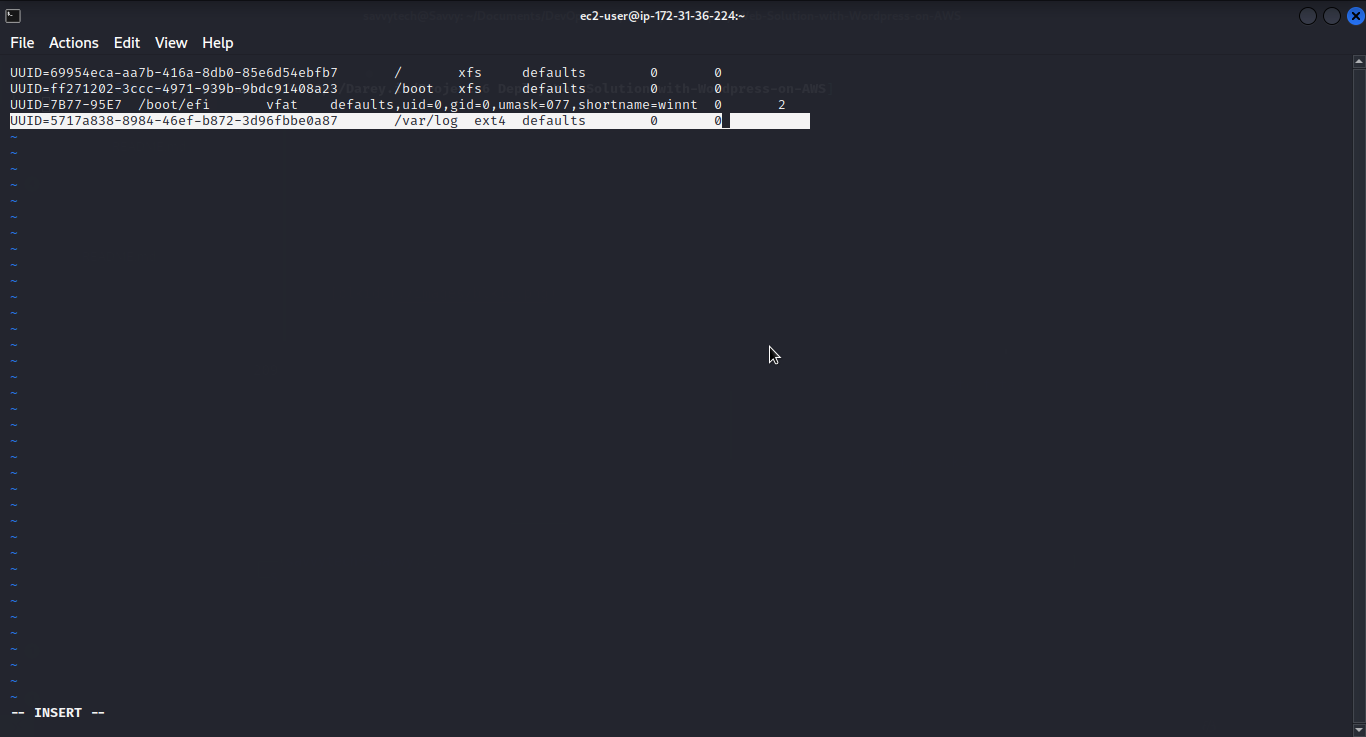
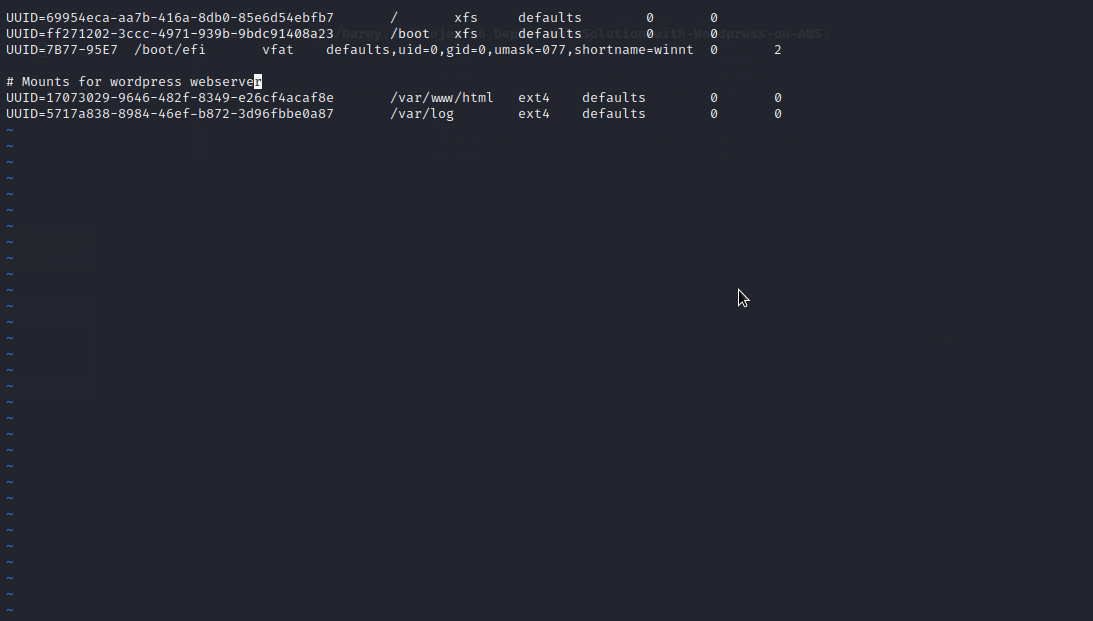
modified Readme file and corrected etc/fstab configuration for webserver

diff --git a/README.md b/README.md
@@ -226,3 +226,6 @@ important)
 ________
 ### STEP 2 - PREPARE THE DATABASE SERVER
 * Launch a second RedHat EC2 instance that will have a role – ‘DB Server’
+
+* Repeat the same steps as for the Web Server, but instead of apps-lv create db-lv and mount it to /db directory instead of /var/www/html/ directory.
+
